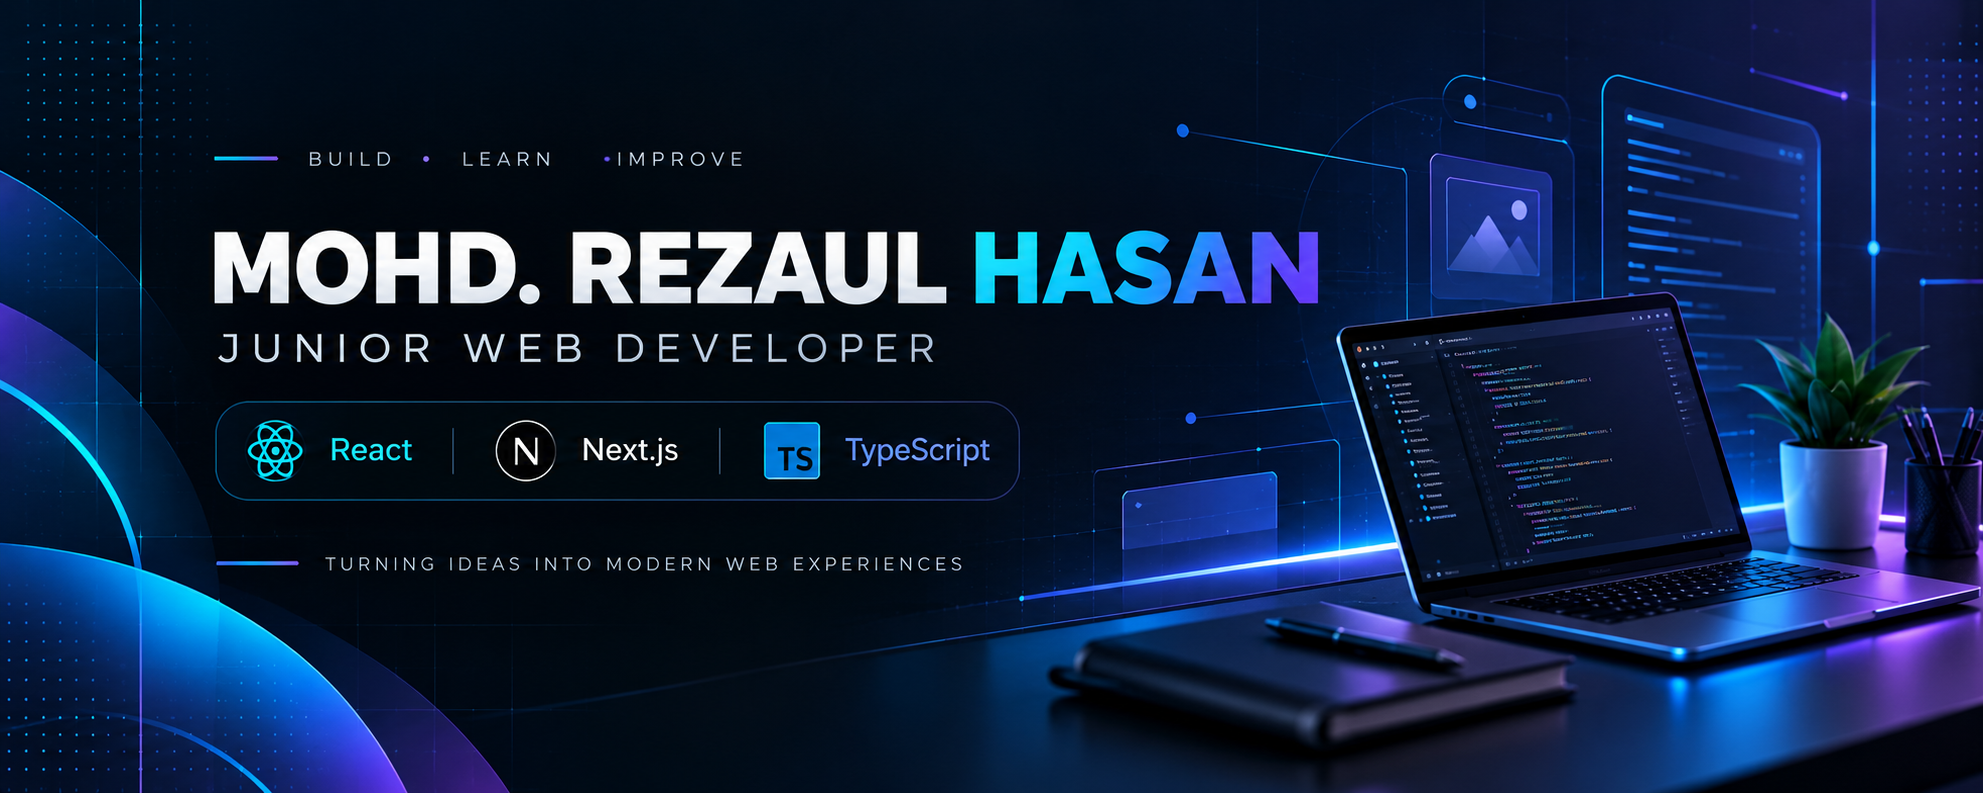
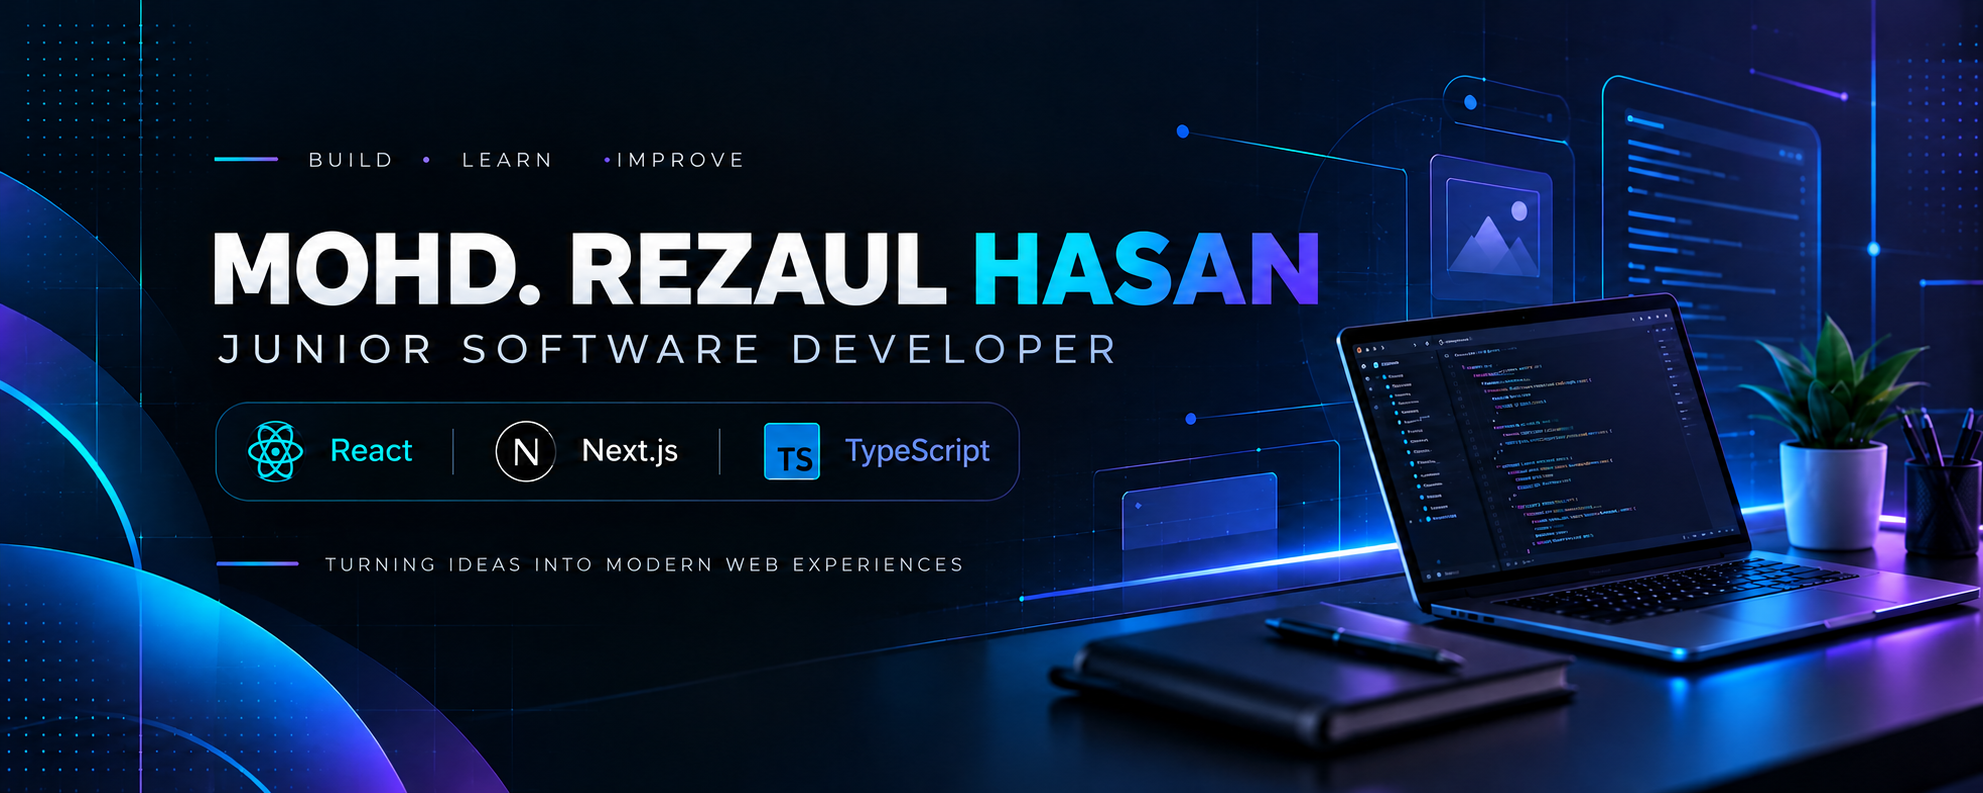
feat: align GitHub profile with software developer identity

diff --git a/README.md b/README.md
@@ -1,23 +1,22 @@
-![Mohd. Rezaul Hasan — Junior Web Developer. React, Next.js, and TypeScript.](assets/banner/github-profile-banner.png)
+![Mohd. Rezaul Hasan — Junior Software Developer. React, Next.js, and TypeScript.](assets/banner/github-profile-banner.png)
 
 ## Hi, I'm Mohd. Rezaul Hasan 👋
 
-Welcome to my GitHub profile. I build and learn through hands-on web development projects, currently focusing on React, Next.js, and TypeScript.
+**Junior Software Developer**<br>
+**React • Next.js • TypeScript**<br>
+**Full-Stack Development & Application Security**
+
+Welcome to my GitHub profile. I build and learn through hands-on software development projects, with a focus on responsive web applications using React, Next.js, and TypeScript.
 
 ## About Me
 
-I'm an Electrical & Electronics Engineering graduate transitioning into software development, with a growing focus on modern web technologies. I enjoy turning ideas into clean, responsive web experiences while strengthening my understanding of JavaScript, React, Next.js, and TypeScript.
+I'm an Electrical & Electronics Engineering graduate with professional engineering experience, transitioning into software development. I enjoy turning ideas into clean, responsive web experiences while strengthening my understanding of JavaScript, React, Next.js, and TypeScript.
 
-My engineering background shapes how I approach technical problems: systematically, with curiosity and a desire to understand how systems work.
+My engineering background and professional experience shape how I approach technical problems: systematically, with curiosity and a desire to understand how systems work.
 
-## Current Focus
+## Demonstrated Technologies
 
-- Exploring Next.js and modern React development
-- Building responsive web applications through hands-on projects
-- Strengthening JavaScript and TypeScript fundamentals
-- Learning cybersecurity and secure software development fundamentals
-
-## Tech Stack
+Technologies and tools used in my hands-on projects and development workflow.
 
 ### Web Foundations
 
@@ -33,10 +32,32 @@ My engineering background shapes how I approach technical problems: systematical
 
 ![Git, GitHub, VS Code](https://skillicons.dev/icons?i=git,github,vscode&theme=dark&perline=3)
 
+### Project-Based Backend Experience
+
+Better Auth and MongoDB — used in BazarDor for authentication and database integration.
+
+## Currently Learning
+
+- Full-Stack Development
+- Backend Engineering
+- Database Design
+- Authentication and Authorization
+- Application Security
+- Secure Software Development
+
+I'm developing these fundamentals through study and practice, building on the technologies used in my projects.
 
 ## Featured Projects
 
-### FitLog — Workout Library
+### BazarDor — Assignment 7
+
+A Bengali-first market-price application for browsing grocery prices in Bangladesh, tracking price changes, and exploring market-wise details, with authentication and protected product pages.
+
+**Stack:** Next.js • React • TypeScript • Better Auth • MongoDB • Tailwind CSS
+
+[Repository](https://github.com/rezaulhasan1369/Assignment-7) · [Live Demo](https://bazardor-dps25.vercel.app)
+
+### FitLog — Assignment 6
 
 A learning project for browsing workouts, building a daily workout plan, and saving exercises for later, with plans stored locally in the browser.
 
@@ -44,11 +65,11 @@ A learning project for browsing workouts, building a daily workout plan, and sav
 
 [Repository](https://github.com/rezaulhasan1369/assignment_6) · [Live Demo](https://assignment-6-two-pink.vercel.app/)
 
-### Dev Stack Builder — Technology Stack Planner
+### Dev Stack Builder — Assignment Five
 
 A responsive React application for exploring development technologies and building a personalized tech stack, with duplicate prevention and easy stack management.
 
-**Stack:** React • Vite • Tailwind CSS • DaisyUI • React-Toastify • JSON
+**Stack:** React • TypeScript • Vite • Tailwind CSS • React-Toastify
 
 [Repository](https://github.com/rezaulhasan1369/react-assignment-five) · [Live Demo](https://earnest-gingersnap-7bad9b.netlify.app/)
 
